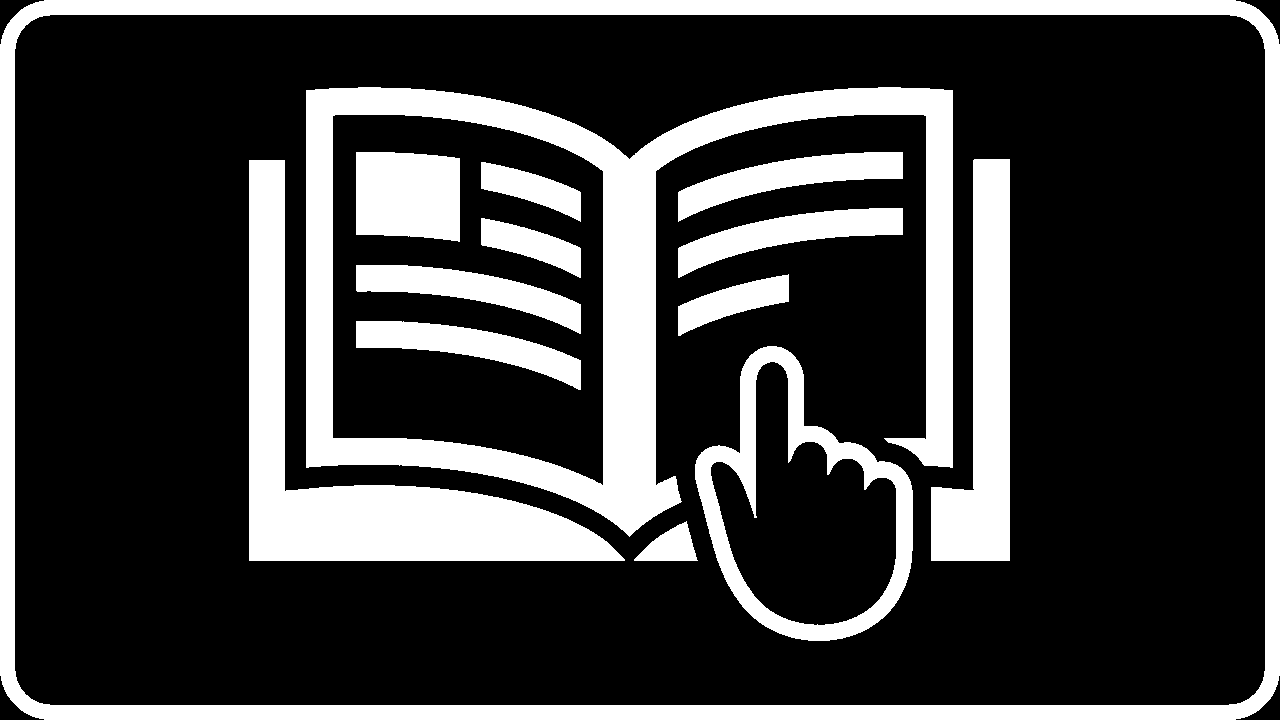
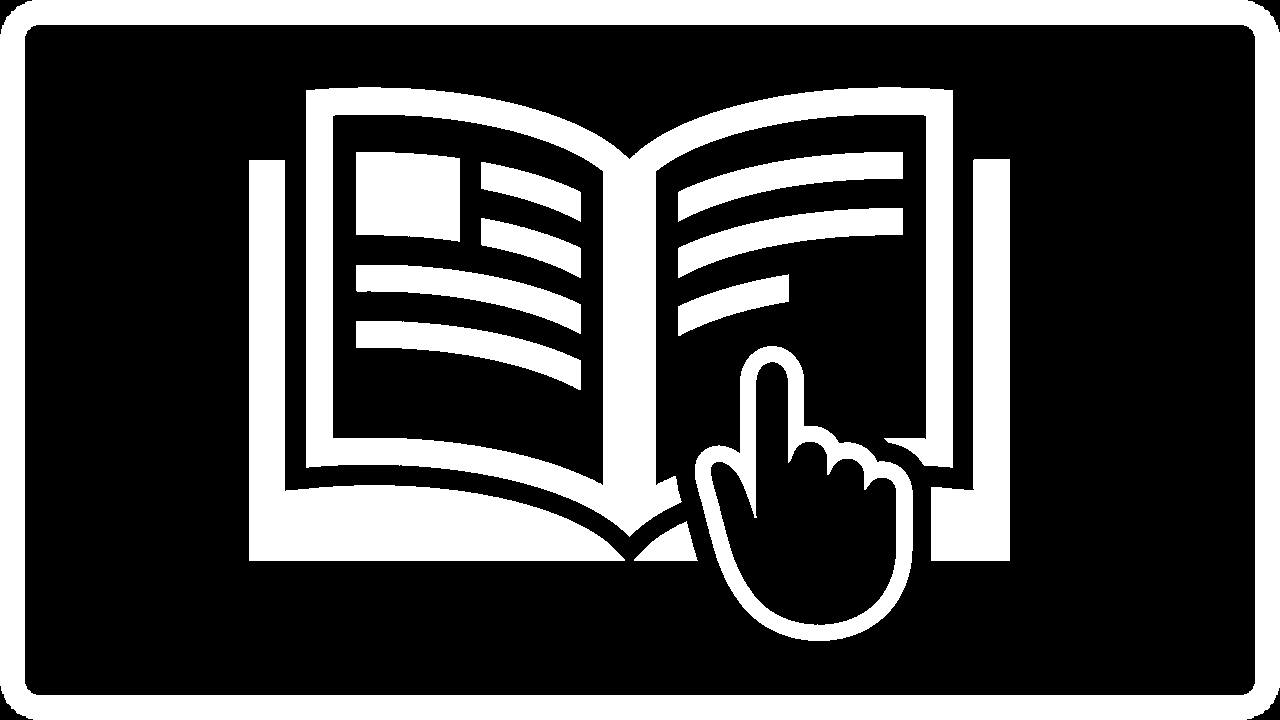
added product taggings

Changed region(s): [[0.0, 0.0, 1.0, 1.0]]

diff --git a/unplug/static/assets/stylesheet.css b/unplug/static/assets/stylesheet.css
@@ -62,7 +62,7 @@ a{
 }
 
 #symbolo{
-	opacity: 0.2;
+	opacity: 0.13;
 	position: absolute;
 	left: 10px;
 	bottom: 10px;
@@ -71,8 +71,6 @@ a{
 }
 
 .symbl{
-	max-height: 48px;
-	max-width: 150px;
 	margin-right: 5px;
 	image-rendering: pixelated;
 }
